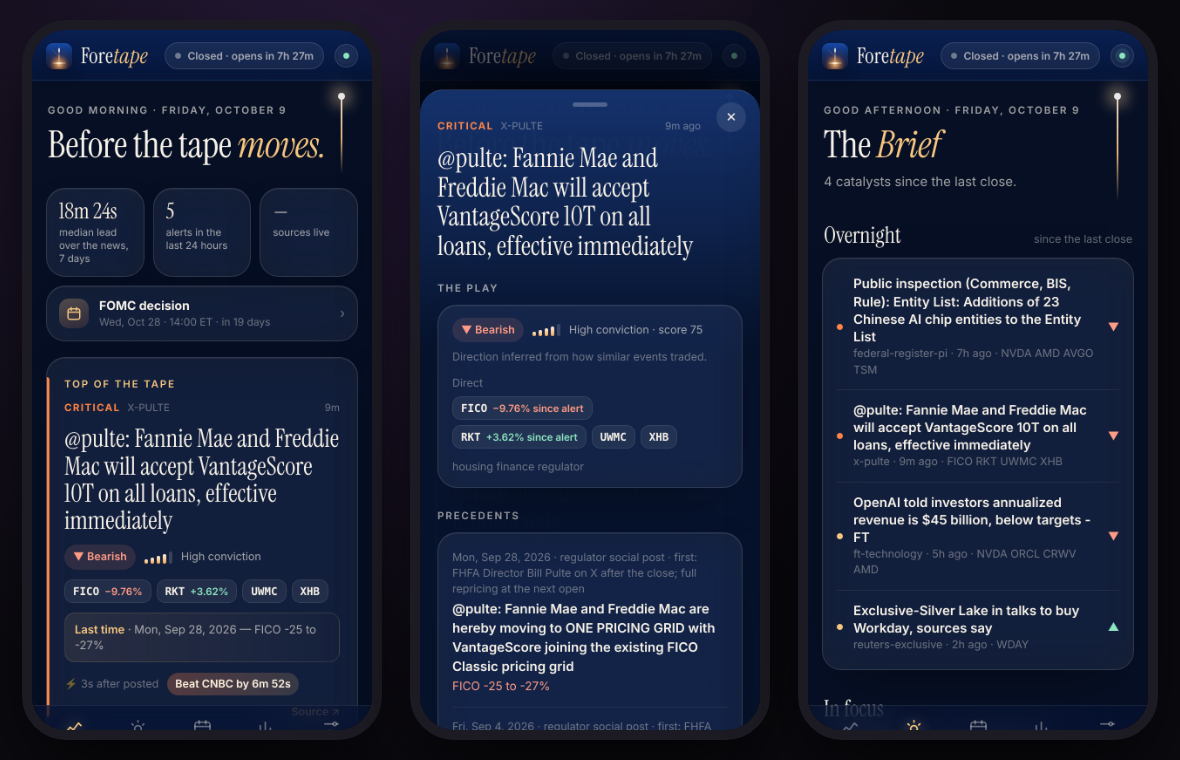
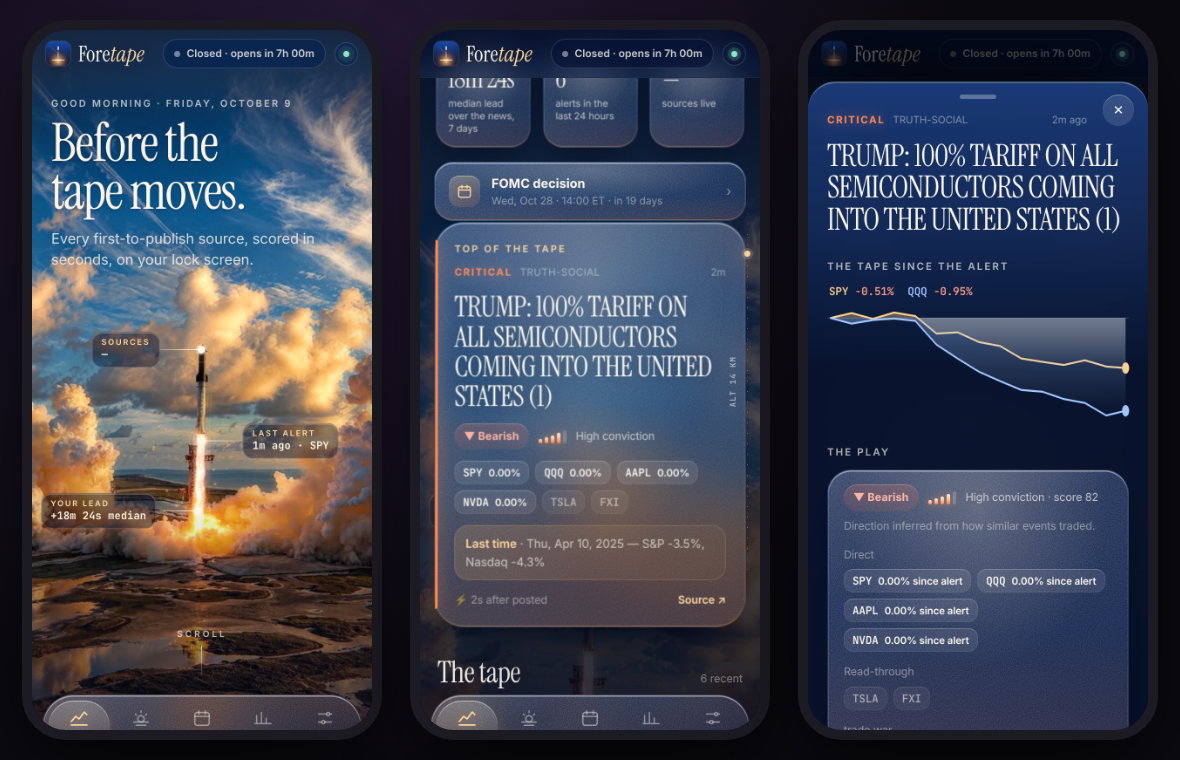
Foretape scene: callouts pinned to the rocket, ambient mood, a lighter shader
- Callouts (sources up, last alert, your median lead) are projected through
  the same camera as the shader (Scene.project), so they stay on the nose,
  body and plume as the intro zooms, the phone tilts and the page scrolls.
  They step aside when an onboarding card covers the rocket.
- Mood: the light is brighter while the market is open and dusky while it is
  closed; a CRITICAL alert in the last 15 minutes warms the frame's edges.
- Shader cost: embers, wet-ground glints and the space block only run for
  the pixels that need them; bloom uses 6 taps; the render rate halves once
  the frame is mostly sky and nothing is pulsing. Big stars get a hard core
  and diffraction spikes.
- Swipe a detail sheet down to dismiss it (rubber-banded, with a flick
  threshold). The camera is a critically damped spring.
- Docs: how the photograph is brought to life, the iPhone motion
  permission, how to swap the photo, and a note to check the photo's
  rights before publishing the repository.

Claude-Session: https://claude.ai/code/session_0118qPuacDrjsU43wii87D4R

diff --git a/news247/web/static/app/scene.js b/news247/web/static/app/scene.js
@@ -31,6 +31,8 @@ uniform float uIntro;
 uniform float uAspect;
 uniform float uMotion;
 uniform float uPulse;
+uniform float uMood;
+uniform float uTension;
 
 float hash(vec2 p) { p = fract(p * vec2(123.34, 456.21)); p += dot(p, p + 45.32); return fract(p.x * p.y); }
 float noise(vec2 p) {
@@ -55,7 +57,11 @@ vec3 space(vec2 uv, float amt, float t) {
   float tw = 0.6 + 0.4 * sin(t * (1.0 + 3.0 * hash(g + 3.1)) + h * 40.0);
   float star = on * smoothstep(0.22, 0.0, length(f + (hash(g + 7.7) - 0.5) * 0.5)) * tw;
   vec2 q = vec2(uv.x * uAspect, uv.y) * 22.0;
-  float big = step(0.985, hash(floor(q))) * smoothstep(0.25, 0.0, length(fract(q) - 0.5)) * (0.7 + 0.3 * sin(t * 2.0 + h * 9.0));
+  vec2 fq = fract(q) - 0.5;
+  float bigOn = step(0.985, hash(floor(q)));
+  float core = exp(-dot(fq, fq) * 420.0);                                                    // a hard little core...
+  float spikes = (exp(-abs(fq.x) * 90.0) * exp(-abs(fq.y) * 9.0) + exp(-abs(fq.y) * 90.0) * exp(-abs(fq.x) * 9.0)) * 0.32;   // ...with diffraction spikes
+  float big = bigOn * (core + spikes) * (0.75 + 0.25 * sin(t * 2.0 + h * 9.0));
   float band = smoothstep(0.55, 0.0, abs((uv.x * uAspect - uv.y * 0.9) - 0.15 - 0.2 * fbm(uv * 3.0)));
   vec3 milky = vec3(0.30, 0.38, 0.62) * band * (0.25 + 0.55 * fbm(uv * 14.0)) * 0.55;
   return (vec3(0.85, 0.9, 1.0) * (star * 1.25 + big * 1.1) + milky) * amt;
@@ -71,7 +77,7 @@ void main() {
   float k1 = smoothstep(0.0, 0.55, uClimb);
   float k2 = smoothstep(0.35, 2.2, uClimb);
   float zoom = (1.0 + 0.38 * k1 + 0.30 * k2) * (1.0 + 0.11 * (1.0 - uIntro) * (1.0 - uIntro));
-  float anchor = mix(0.5, 0.565, smoothstep(0.5, 0.2, hh0));   // wide screens frame the whole rocket + plume
+  float anchor = mix(0.5, 0.565, 1.0 - smoothstep(0.2, 0.5, hh0));   // wide screens frame the whole rocket + plume
   float cy = mix(anchor, anchor - 0.30, k1) - 0.75 * k2;
   float hh = hh0 / zoom, hw = hh * sa / uAspect;
   // handheld breathing, big at ignition, barely there afterwards
@@ -109,13 +115,13 @@ void main() {
 
   // ---- bloom from the brightest parts (plume, sunlit cloud tops)
   vec3 bl = vec3(0.0);
-  for (int i = 0; i < 8; i++) {
-    float a = float(i) * 0.7854 + 0.4;
+  for (int i = 0; i < 6; i++) {
+    float a = float(i) * 1.0472 + 0.4;
     vec2 o = vec2(cos(a), sin(a) * uAspect * 0.9) * (0.010 + 0.006 * float(i - (i / 2) * 2));
     vec3 q = photo(uv + o);
     bl += q * smoothstep(0.62, 1.0, luma(q));
   }
-  bl /= 8.0;
+  bl /= 6.0;
   col += bl * vec3(1.05, 0.78, 0.5) * 0.55;
 
   // ---- plume: white-hot core that flickers, ignition flash
@@ -127,33 +133,40 @@ void main() {
   float base = exp(-pow(length((uv - vec2(0.489, 0.676)) * vec2(sa * 0.9, 1.3)) / 0.055, 2.0));
   col += vec3(1.0, 0.55, 0.22) * base * (0.18 + 0.12 * fk + 0.8 * pow(1.0 - uIntro, 2.0) + 0.7 * uPulse);
 
-  // ---- embers rising from the pad
-  for (int i = 0; i < 34; i++) {
-    float id = float(i);
-    float life = fract(t * (0.10 + 0.07 * hash(vec2(id, 9.0))) + hash(vec2(id, 1.0)));
-    vec2 b = vec2(0.488 + (hash(vec2(id, 2.0)) - 0.5) * 0.10, 0.672 - hash(vec2(id, 5.0)) * 0.015);
-    vec2 v = vec2((hash(vec2(id, 3.0)) - 0.5) * 0.34, -0.06 - 0.20 * hash(vec2(id, 4.0)));
-    vec2 p = b + v * life + vec2(sin(life * 7.0 + id) * 0.012 * life, 0.05 * life * life);
-    vec2 dd = (uv - p) * vec2(uAspect, 1.0);
-    float sz = 0.0016 * (1.0 - life) + 0.0004;
-    float g = exp(-dot(dd, dd) / (sz * sz)) * (1.0 - life) * (0.6 + 0.4 * sin(t * 12.0 + id * 3.0));
-    col += vec3(1.0, 0.62 + 0.3 * life, 0.28) * g * 0.9 * uMotion;
+  // ---- embers rising from the pad (only evaluated near the pad: the loop is the costliest part)
+  if (uv.x > 0.20 && uv.x < 0.78 && uv.y > 0.30 && uv.y < 0.74 && uMotion > 0.0) {
+    for (int i = 0; i < 28; i++) {
+      float id = float(i);
+      float life = fract(t * (0.10 + 0.07 * hash(vec2(id, 9.0))) + hash(vec2(id, 1.0)));
+      vec2 b = vec2(0.488 + (hash(vec2(id, 2.0)) - 0.5) * 0.10, 0.672 - hash(vec2(id, 5.0)) * 0.015);
+      vec2 v = vec2((hash(vec2(id, 3.0)) - 0.5) * 0.34, -0.06 - 0.20 * hash(vec2(id, 4.0)));
+      vec2 p = b + v * life + vec2(sin(life * 7.0 + id) * 0.012 * life, 0.05 * life * life);
+      vec2 dd = (uv - p) * vec2(uAspect, 1.0);
+      float sz = 0.0016 * (1.0 - life) + 0.0004;
+      float g = exp(-dot(dd, dd) / (sz * sz)) * (1.0 - life) * (0.6 + 0.4 * sin(t * 12.0 + id * 3.0));
+      col += vec3(1.0, 0.62 + 0.3 * life, 0.28) * g * 0.9;
+    }
   }
 
   // ---- sunlit glints on the wet ground
-  float wet = smoothstep(0.72, 0.80, uv.y);
-  float gl = pow(noise(uv * vec2(420.0, 260.0) + vec2(t * 0.6, 0.0)), 14.0) * smoothstep(0.35, 0.8, luma(col));
-  col += vec3(1.0, 0.8, 0.55) * gl * wet * 0.8;
+  if (uv.y > 0.72) {
+    float wet = smoothstep(0.72, 0.80, uv.y);
+    float gl = pow(noise(uv * vec2(420.0, 260.0) + vec2(t * 0.6, 0.0)), 14.0) * smoothstep(0.35, 0.8, luma(col));
+    col += vec3(1.0, 0.8, 0.55) * gl * wet * 0.8;
+  }
 
   // ---- above the top of the photograph: the sky deepens into space
-  float over = -uv0.y;
-  vec3 topCol = (photo(vec2(0.12, 0.012)) + photo(vec2(0.30, 0.012)) + photo(vec2(0.50, 0.012)) + photo(vec2(0.70, 0.012)) + photo(vec2(0.88, 0.012))) * 0.2;
-  float alt = smoothstep(0.0, 0.65, over);
-  vec3 skyAbove = mix(topCol, vec3(0.010, 0.026, 0.080), pow(alt, 0.6));
-  skyAbove += vec3(0.30, 0.20, 0.12) * pow(1.0 - alt, 8.0) * 0.05;
-  vec3 above = skyAbove + space(uv0, smoothstep(0.05, 0.55, over), t);
-  float seam = 1.0 - smoothstep(0.0, 0.16, uv0.y);          // feather the photo's top edge into the sky
-  col = mix(col, above, clamp(seam * seam * (3.0 - 2.0 * seam) + step(uv0.y, 0.0), 0.0, 1.0));
+  if (uv0.y < 0.18) {
+    float over = -uv0.y;
+    vec3 topCol = (photo(vec2(0.12, 0.012)) + photo(vec2(0.30, 0.012)) + photo(vec2(0.50, 0.012)) + photo(vec2(0.70, 0.012)) + photo(vec2(0.88, 0.012))) * 0.2;
+    float alt = smoothstep(0.0, 0.65, over);
+    vec3 skyAbove = mix(topCol, vec3(0.010, 0.026, 0.080), pow(alt, 0.6));
+    skyAbove += vec3(0.30, 0.20, 0.12) * pow(1.0 - alt, 8.0) * 0.05;
+    vec3 above = skyAbove;
+    if (over > 0.05) above += space(uv0, smoothstep(0.05, 0.55, over), t);
+    float seam = 1.0 - smoothstep(0.0, 0.16, uv0.y);          // feather the photo's top edge into the sky
+    col = mix(col, above, clamp(seam * seam * (3.0 - 2.0 * seam) + step(uv0.y, 0.0), 0.0, 1.0));
+  }
 
   // ---- the lower frame darkens a little as we leave the pad behind
   col *= 1.0 - 0.18 * k1;
@@ -167,6 +180,10 @@ void main() {
   col = mix(col, col * vec3(0.92, 1.0, 1.10), (1.0 - smoothstep(0.0, 0.35, l)) * 0.5);
   float vig = smoothstep(1.15, 0.30, length((s - 0.5) * vec2(1.0, 1.15)));
   col *= mix(0.62, 1.0, vig);
+  col *= mix(0.88, 1.04, uMood);                        // dusk while the market is closed, brighter while it's open
+  col = mix(vec3(luma(col)), col, mix(0.92, 1.06, uMood));
+  float edge = 1.0 - vig;                               // a recent CRITICAL alert warms the edges of the frame
+  col += vec3(0.55, 0.16, 0.04) * edge * edge * uTension * 0.55;
   float gr = hash(s * uRes + fract(uTime * 7.0)) - 0.5;
   col += gr * 0.028 * (1.0 - l * 0.5);
   gl_FragColor = vec4(clamp(col, 0.0, 1.0), 1.0);
@@ -224,12 +241,13 @@ void main() {
         tex(0, photo, true); tex(1, depth, false);
         this.gl = gl;
         this.u = {};
-        ["uPhoto", "uDepth", "uRes", "uTime", "uClimb", "uTilt", "uIntro", "uAspect", "uMotion", "uPulse"].forEach((n) => (this.u[n] = gl.getUniformLocation(prog, n)));
+        ["uPhoto", "uDepth", "uRes", "uTime", "uClimb", "uTilt", "uIntro", "uAspect", "uMotion", "uPulse", "uMood", "uTension"].forEach((n) => (this.u[n] = gl.getUniformLocation(prog, n)));
         gl.uniform1i(this.u.uPhoto, 0); gl.uniform1i(this.u.uDepth, 1);
         gl.uniform1f(this.u.uAspect, photo.width / photo.height);
         this.resize();
         addEventListener("resize", () => this.resize());
         document.addEventListener("visibilitychange", () => { this.paused = document.hidden; if (!this.paused) this.loop(performance.now()); });
+        this.aspect = photo.width / photo.height;
         this.ok = true;
         document.documentElement.classList.add("gl");
         this.t0 = performance.now();
@@ -256,8 +274,25 @@ void main() {
       this.gl.uniform2f(this.u.uRes, w, h);
     },
 
+    /* Where a point of the photograph (u, v in 0..1) is on screen right now: the same camera as the
+       shader, so interface callouts can ride on the rocket. depth is the point's painted depth. */
+    project(u, v, depth) {
+      const w = innerWidth, h = innerHeight, sa = w / h, ia = this.aspect || 0.566;
+      const sm = (a, b, x) => { const t = Math.min(1, Math.max(0, (x - a) / (b - a))); return t * t * (3 - 2 * t); };
+      const hh0 = Math.min(0.5, (0.5 * ia) / sa), cl = this.climb;
+      const k1 = sm(0, 0.55, cl), k2 = sm(0.35, 2.2, cl), iv = 1 - this.intro;
+      const zoom = (1 + 0.38 * k1 + 0.3 * k2) * (1 + 0.11 * iv * iv);
+      const anchor = 0.5 + 0.065 * (1 - sm(0.2, 0.5, hh0));
+      const cy = anchor + (anchor - 0.3 - anchor) * k1 - 0.75 * k2;
+      const hh = hh0 / zoom, hw = (hh * sa) / ia, dz = (depth ?? 0.46) - 0.32;
+      const px = -this.tilt[0] * 0.02 * dz, py = -this.tilt[1] * 0.012 * dz - cl * 0.06 * dz;
+      const u0 = u - px, v0 = v - py;
+      return [((u0 - 0.5) / (2 * hw) + 0.5) * w, ((v0 - cy) / (2 * hh) + 0.5) * h];
+    },
+
     ignite() { this.introStart = performance.now(); },
     pulse() { this.pulseAt = performance.now(); },
+    setMood(open, tension) { this.moodTarget = open ? 1 : 0; this.tensionTarget = tension || 0; },
     setClimb(v) { this.climbTarget = v; },
     setTilt(x, y) { this.tiltTarget = [Math.max(-1, Math.min(1, x)), Math.max(-1, Math.min(1, y))]; },
 
@@ -283,8 +318,12 @@ void main() {
       gl.uniform2f(this.u.uTilt, this.tilt[0], this.tilt[1]);
       gl.uniform1f(this.u.uIntro, this.reduced ? 1 : this.intro);
       gl.uniform1f(this.u.uMotion, motion);
+      this.mood = (this.mood ?? 0.5) + ((this.moodTarget ?? 0.5) - (this.mood ?? 0.5)) * (1 - Math.exp(-dt * 0.8));
+      this.tension = (this.tension ?? 0) + ((this.tensionTarget ?? 0) - (this.tension ?? 0)) * (1 - Math.exp(-dt * 0.6));
+      gl.uniform1f(this.u.uMood, this.mood); gl.uniform1f(this.u.uTension, this.tension);
       const pk = this.pulseAt ? Math.max(0, 1 - (now - this.pulseAt) / 1800) : 0;
       gl.uniform1f(this.u.uPulse, pk * pk * (this.reduced ? 0 : 1));
+      if (this.climb > 1.1 && (this.frames & 1) && !this.pulseAt) { this.frames++; requestAnimationFrame((n) => this.loop(n)); return; }
       gl.drawArrays(gl.TRIANGLE_STRIP, 0, 4);
       // adaptive resolution: if the phone struggles, render fewer pixels (the photo stays sharp enough)
       this.frames++;

diff --git a/news247/web/static/app/app.js b/news247/web/static/app/app.js
@@ -140,10 +140,18 @@ function renderTop() {
   const g = hour < 5 ? "Good evening" : hour < 12 ? "Good morning" : hour < 18 ? "Good afternoon" : "Good evening";
   $("greet").textContent = `${g} · ${new Date().toLocaleDateString(undefined, { weekday: "long", month: "long", day: "numeric" })}`;
   const m = app.market;
+  // ambient state: lighting follows the market; a CRITICAL alert in the last 15 minutes warms the frame
+  const hot = alerts.some((x) => x.severity === "CRITICAL" && x.kind !== "system" && Date.now() / 1000 - x.created < 900);
+  Scene.setMood(!!m?.open, hot ? 1 : 0);
   $("mkt").lastElementChild.textContent = marketText(m);
   $("mkt").classList.toggle("open", !!m?.open);
   if (app.edge?.median_lead_s != null) countTo($("sLead"), app.edge.median_lead_s, (v) => dur(v).replace(/ 0?0s$/, ""));
   else $("sLead").textContent = "—";
+  Array.from($("hud").querySelectorAll(".co")).forEach((c) => (c._w = 0));  // labels changed: re-measure
+  $("hudA").textContent = app.sources ? `${app.sources_ok} of ${app.sources} live` : "—";
+  const last = alerts.find((x) => x.kind === "news");
+  $("hudB").textContent = last ? `${ago(last.created)} ago · ${(last.edge?.play?.direct?.[0] || last.tickers?.[0] || (last.item?.source || "")).toString().slice(0, 12)}` : "none yet";
+  $("hudC").textContent = app.edge?.median_lead_s != null ? "+" + dur(app.edge.median_lead_s).replace(/ 0?0s$/, "") + " median" : "measuring…";
   if (app.alerts_24h != null) countTo($("sAlerts"), app.alerts_24h, (v) => String(Math.round(v)));
   if (app.sources) countTo($("sSources"), app.sources_ok, (v) => `${Math.round(v)}/${app.sources}`);
   const n = (app.next || []).find((e) => (e.impact || 1) >= 2) || (app.next || [])[0];
@@ -289,6 +297,26 @@ function closeSheet() {
   if (/#a=/.test(location.hash)) history.replaceState(null, "", location.pathname + location.search);
 }
 $("scrim").onclick = closeSheet; $("closeSheet").onclick = closeSheet;
+// swipe down to dismiss: drag from the top of the sheet, with rubber-band resistance and a flick threshold
+(() => {
+  const sh = $("sheet"); let y0 = 0, dy = 0, t0 = 0, active = false;
+  sh.addEventListener("touchstart", (e) => { if (sh.scrollTop <= 0) { y0 = e.touches[0].clientY; t0 = performance.now(); active = true; dy = 0; sh.style.transition = "none"; } }, { passive: true });
+  sh.addEventListener("touchmove", (e) => {
+    if (!active) return;
+    const d = e.touches[0].clientY - y0;
+    if (d <= 0) { dy = 0; sh.style.transform = ""; return; }
+    dy = d; e.preventDefault();
+    sh.style.transform = `translateY(${(d * 0.92).toFixed(1)}px)`;
+    $("scrim").style.opacity = String(Math.max(0, 1 - d / 420));
+  }, { passive: false });
+  const end = () => {
+    if (!active) return; active = false; sh.style.transition = "";
+    const v = dy / Math.max(1, performance.now() - t0);
+    $("scrim").style.opacity = "";
+    if (dy > 120 || (dy > 40 && v > 0.6)) closeSheet(); sh.style.transform = "";
+  };
+  sh.addEventListener("touchend", end); sh.addEventListener("touchcancel", end);
+})();
 document.addEventListener("keydown", (e) => { if (e.key === "Escape") closeSheet(); });
 document.addEventListener("click", (e) => {
   const el = e.target.closest("[data-id]");
@@ -341,6 +369,7 @@ async function refreshPushUI() {
   $("install").hidden = !(isIOS && !standalone);
   $("enable").hidden = !(pushCapable && perm === "default" && !(isIOS && !standalone));
   $("denied").hidden = perm !== "denied" || (isIOS && !standalone);
+  Motion.ui();
   $("pushState").textContent = !pushCapable ? (isIOS && !standalone ? "add to home screen first" : "not supported here")
     : perm === "granted" ? "on ✓" : perm === "denied" ? "blocked" : "off";
   if (pushCapable && perm === "granted") { try { await subscribe(false); } catch (e) { $("pushState").textContent = "error: " + e.message; } }
@@ -386,7 +415,8 @@ const Motion = {
   disable() { removeEventListener("deviceorientation", this.handler); this.on = false; this.gx = this.gy = 0; store.set("ft_motion", "0"); this.ui(); },
   ui() {
     $("motionState").textContent = this.on ? "on ✓ (tap to turn off)" : reduced ? "off (reduced motion)" : "off (tap to enable)";
-    $("motionBtn").hidden = !(isIOS && !this.on && store.get("ft_motion") !== "0" && !reduced) || !!$("enable").offsetParent;
+    const card = !!document.querySelector(".hero-dock .dockcard:not([hidden])");
+    $("motionBtn").hidden = !(isIOS && !this.on && store.get("ft_motion") !== "0" && !reduced) || card;
   },
 };
 $("motionBtn").onclick = async () => { if (!(await Motion.enable())) toast("Motion access was declined"); };
@@ -473,12 +503,35 @@ const Fx = {
         el.style.setProperty("--stz", (-Math.abs(c) * 46).toFixed(1) + "px");
       });
     }
+    // callouts ride on the rocket; they belong to the hero, so they fade as the page scrolls away
+    const hud = $("hud");
+    if (hud) {
+      const cardUp = !!document.querySelector(".hero-dock .dockcard:not([hidden])");  // onboarding covers the rocket: callouts step aside
+      const show = tab === "tape" && y < vh * 0.5 && !$("main").hidden && !cardUp;
+      hud.classList.toggle("on", show);
+      if (show) {
+        hud.style.opacity = (1 - clamp(y / (vh * 0.42))).toFixed(3);
+        hud.querySelectorAll(".co").forEach((co) => {
+          const [px, py] = Scene.project(+co.dataset.u, +co.dataset.v);
+          const left = co.classList.contains("l") ? px - (co._w || (co._w = co.offsetWidth || 150)) : px;  // "l" callouts extend leftwards from the anchor
+          co.style.transform = `translate3d(${left.toFixed(1)}px, ${py.toFixed(1)}px, 0)`;
+          if (Scene.intro > 0.7 && !co.classList.contains("show")) { co.style.setProperty("--n", co.dataset.d); co.classList.add("show"); }
+        });
+      }
+    }
     // altitude readout
     const alt = Scene.climb * 38;
     $("railAlt").textContent = "ALT " + (alt < 10 ? alt.toFixed(1) : Math.round(alt)) + " KM";
     $("railDot").style.top = clamp(Scene.climb / 2.4) * 100 + "%";
   },
-  tick() { if (this.dirty || Math.abs(Scene.climb - Scene.climbTarget) > 0.0004 || Motion.on) { this.dirty = false; this.frame(); } requestAnimationFrame(() => this.tick()); },
+  tick() {
+    // the callouts must follow the camera every frame while the hero is on screen (intro zoom, tilt, breathing)
+    const heroLive = tab === "tape" && scrollY < innerHeight * 0.5;
+    const moving = Math.abs(Scene.climb - Scene.climbTarget) > 0.0004 || Scene.intro < 1 || Motion.on
+      || Math.abs(Scene.tilt[0] - Scene.tiltTarget[0]) + Math.abs(Scene.tilt[1] - Scene.tiltTarget[1]) > 0.002;
+    if (this.dirty || moving || heroLive) { this.dirty = false; this.frame(); }
+    requestAnimationFrame(() => this.tick());
+  },
 };
 addEventListener("scroll", () => (Fx.dirty = true), { passive: true });
 addEventListener("resize", () => (Fx.dirty = true));

diff --git a/news247/web/static/app/app.css b/news247/web/static/app/app.css
@@ -46,6 +46,23 @@ html.nogl #scene { display: none; }
         transition: background .3s; }
 .curtain { position: fixed; inset: 0; z-index: 90; background: #02060f; opacity: 1; pointer-events: none; transition: opacity 1.6s ease .15s; }
 .curtain.off { opacity: 0; }
+/* callouts pinned to the rocket (positions come from Scene.project each frame) */
+.hud { position: fixed; inset: 0; z-index: 2; pointer-events: none; opacity: 0; transition: opacity .6s; }
+.hud.on { opacity: 1; }
+.co { position: absolute; left: 0; top: 0; display: flex; align-items: center; will-change: transform; opacity: 0; margin-top: -22px; }
+.co.show { animation: coIn 1s var(--ease) forwards; animation-delay: calc(var(--n) * .35s); }
+@keyframes coIn { from { opacity: 0; filter: blur(6px); } to { opacity: 1; filter: none; } }
+.co .pt { position: relative; flex: none; width: 9px; height: 9px; margin-left: -4.5px; border-radius: 50%; background: var(--cream); box-shadow: 0 0 0 2px rgba(255, 246, 232, .35), 0 0 16px rgba(255, 200, 130, .95); }
+.co .pt::after { content: ""; position: absolute; inset: -6px; border-radius: 50%; border: 1px solid rgba(255, 246, 232, .6); animation: ping 2.6s var(--ease) infinite; }
+@keyframes ping { 0% { transform: scale(.4); opacity: 1; } 100% { transform: scale(1.7); opacity: 0; } }
+.co .ln { flex: none; width: clamp(34px, 11vw, 70px); height: 1px; background: linear-gradient(90deg, rgba(255, 246, 232, .9), rgba(255, 246, 232, .25)); }
+.co .lb { padding: 6px 10px 7px; border-radius: 12px; white-space: nowrap; background: rgba(6, 16, 40, .46); border: 1px solid rgba(255, 255, 255, .16);
+          -webkit-backdrop-filter: blur(14px) saturate(160%); backdrop-filter: blur(14px) saturate(160%); box-shadow: inset 0 1px 0 rgba(255, 255, 255, .25); }
+.co .lb small { display: block; font: 600 9px/1 var(--sans); letter-spacing: .2em; text-transform: uppercase; color: var(--gold); }
+.co .lb b { display: block; margin-top: 4px; font: 600 12px/1.1 var(--mono); color: var(--cream); letter-spacing: .01em; }
+.co.l { flex-direction: row-reverse; }
+.co.l .pt { margin-left: 0; margin-right: -4.5px; }
+.co.l .ln { background: linear-gradient(270deg, rgba(255, 246, 232, .9), rgba(255, 246, 232, .25)); }
 .rail { position: fixed; z-index: 4; right: max(10px, env(safe-area-inset-right)); top: 22vh; bottom: 24vh; width: 14px; pointer-events: none; opacity: .0; transition: opacity .6s; }
 .on-scroll .rail { opacity: 1; }
 .rail::before { content: ""; position: absolute; right: 4px; top: 0; bottom: 0; width: 1px; background: linear-gradient(180deg, transparent, rgba(255, 255, 255, .35) 12%, rgba(255, 255, 255, .35) 88%, transparent);

diff --git a/news247/web/static/app/index.html b/news247/web/static/app/index.html
@@ -22,6 +22,11 @@
 <canvas id="scene" aria-hidden="true"></canvas>
 <div class="veil" aria-hidden="true"></div>
 <div class="curtain" id="curtain" aria-hidden="true"></div>
+<div class="hud" id="hud" aria-hidden="true">
+  <div class="co l" data-u="0.497" data-v="0.436" data-d="0"><i class="pt"></i><span class="ln"></span><div class="lb"><small>Sources</small><b id="hudA">—</b></div></div>
+  <div class="co r" data-u="0.499" data-v="0.560" data-d="1"><i class="pt"></i><span class="ln"></span><div class="lb"><small>Last alert</small><b id="hudB">—</b></div></div>
+  <div class="co l" data-u="0.488" data-v="0.655" data-d="2"><i class="pt"></i><span class="ln"></span><div class="lb"><small>Your lead</small><b id="hudC">—</b></div></div>
+</div>
 <div class="rail" aria-hidden="true"><i id="railDot"></i><span id="railAlt">ALT 0.0 KM</span></div>
 
 <section id="lock" hidden>

diff --git a/docs/FORETAPE.md b/docs/FORETAPE.md
@@ -32,7 +32,21 @@ That's it. Close the app; alerts still arrive.
 
 ## What you see
 
-Foretape opens on a live sky: deep cobalt above, a gold horizon below, the way the market looks at the open. Five tabs:
+Foretape opens on a **live photograph**: a rocket climbing out of its own smoke at golden hour. It is not a video or a gradient. A real launch photo is rendered by a WebGL shader (`scene.js`) that adds what a still can't have:
+
+- **Depth.** Tilt your phone (or move the mouse) and the near smoke moves more than the far sky.
+- **Life.** Clouds drift and the smoke billows. The plume flickers, heat shimmers above the pad, embers rise, and the wet ground glints. A new alert makes the plume flare.
+- **Altitude.** The camera climbs as you scroll: past the cirrus, off the top of the photo and into a starfield. Each tab sits at its own altitude, so switching tabs flies the camera. An altitude rail on the right edge shows where you are.
+- **Mood.** The light is a little brighter while the market is open and dusky while it's closed. A CRITICAL alert in the last 15 minutes warms the edges of the frame.
+- **Callouts pinned to the rocket** show live data: how many sources are up, the last alert and who it hit, and your median lead over the news. They are projected through the same camera as the shader, so they stay on the rocket.
+
+Everything on top of the photo is glass, lit like the scene: a cold rim on the top edge, a warm bounce on the bottom, a highlight that slides with the tilt of your phone, and film grain. Cards swing up out of depth as they scroll in and curve on a cylinder as they pass eye level. Swipe a detail sheet down to dismiss it.
+
+**Phones that can't take it:** on WebGL-less browsers the plain photo is shown with CSS parallax; with *Reduce Motion* turned on, a still frame; and a slow GPU lowers the render resolution automatically. Add `?scale=0.5` to the address to render fewer pixels yourself.
+
+**iPhone motion permission.** iOS asks before a web page may read the gyroscope. Foretape shows a *"✦ Tilt your phone: enable motion"* chip once, and the Desk tab has a switch. On Android and desktop there's no prompt (mouse movement drives the tilt on desktop).
+
+Five tabs:
 
 | Tab | What's on it |
 |---|---|
@@ -40,7 +54,7 @@ Foretape opens on a live sky: deep cobalt above, a gold horizon below, the way t
 | **Brief** | The morning meeting: catalysts **since the last close**, the themes in focus, SPY/QQQ/IWM/DIA and the biggest movers, the week's calendar, and **your edge** (stories you had before the mainstream, median and biggest head start). |
 | **Calendar** | Scheduled catalysts for the next 60 days, with time (ET) and impact: FOMC decisions, jobs reports, elections, option expirations and quad witching, market holidays and early closes, plus one-offs like the end of China's rare-earth suspension. Edit `news247/data/calendar.yaml` to add your own (earnings dates, investor days). |
 | **Watch** | The board: every quoted symbol sorted by today's move, with the 5-minute change. Tickers from fresh alerts are added automatically. |
-| **Desk** | Push status, **Send a test alert**, **Reconnect**, alert level (**Critical only / Normal / More**), **Pause 30m / 2h / until resumed**, **Resume**, the Brief time, and engine health. |
+| **Desk** | Push status, **Send a test alert**, **Reconnect**, motion on/off, alert level (**Critical only / Normal / More**), **Pause 30m / 2h / until resumed**, **Resume**, the Brief time, and engine health. |
 
 ### Every alert comes with an analysis
 
@@ -58,6 +72,12 @@ Foretape opens on a live sky: deep cobalt above, a gold horizon below, the way t
 At **08:15 ET on market days**, Foretape sends one notification: *"☀ The Brief · 3 overnight catalysts"*, with the top two headlines and anything big on the calendar today (*"Today 14:00 ET: FOMC decision"*). On a quiet night with nothing scheduled, it stays silent. Tapping it opens the Brief. Change the time with `PUSH_BRIEF_TIME`, or set it empty to turn it off.
 
 **Lock screen:** 🔴 CRITICAL / 🟠 HIGH headline, then the tickers with ▲/▼, the source, how fast it was caught, and the strongest precedent. **Critical alerts stay on screen until you tap them.** Tapping opens that alert's analysis in the app; **Open source** jumps to the original. The app icon shows how many alerts you haven't opened, where the platform supports badges.
+
+## The backdrop photo and fonts
+
+- `news247/web/static/app/launch.webp` is the photo behind everything, and `depth.png` is its painted depth map (white = near). **The photo is the one you supplied. If you publish this repository, make sure you have the right to share it, or swap it for one you do.**
+- To swap it: replace `launch.webp` with any portrait photo (about 1800×3200 looks best) and repaint `depth.png` at the same proportions. The shader's rocket, plume and smoke effects are placed by coordinates near the top of `scene.js` (`0.488` is the plume column; `0.43`–`0.68` is the rocket's height). A photo with different content still works: the parallax, climb into space, grain and glass need no changes.
+- Fonts (Instrument Serif, Inter, JetBrains Mono, all SIL Open Font License) are bundled in `app/fonts/`, so the app makes no third-party requests and works offline once installed.
 
 ## Keeping phones subscribed on Render's free plan
 

diff --git a/README.md b/README.md
@@ -55,7 +55,7 @@ There's also a **morning Brief** pushed at 08:15 ET on market days, a **catalyst
 
 It needs no phone number, no Meta/Apple developer account and no app store. It uses standard Web Push (encrypted; iOS 16.4+, Android, desktop). Optional: a free Postgres in `STATE_DB` keeps phones subscribed across Render restarts.
 
-![Foretape: the tape, an alert's analysis, the morning Brief](docs/foretape.png)
+![Foretape: the live launch scene with callouts, the tape, an alert's analysis with its price chart](docs/foretape.png)
 
 ### Option A1: 100% free, alerts on WhatsApp through Meta's test number
 
